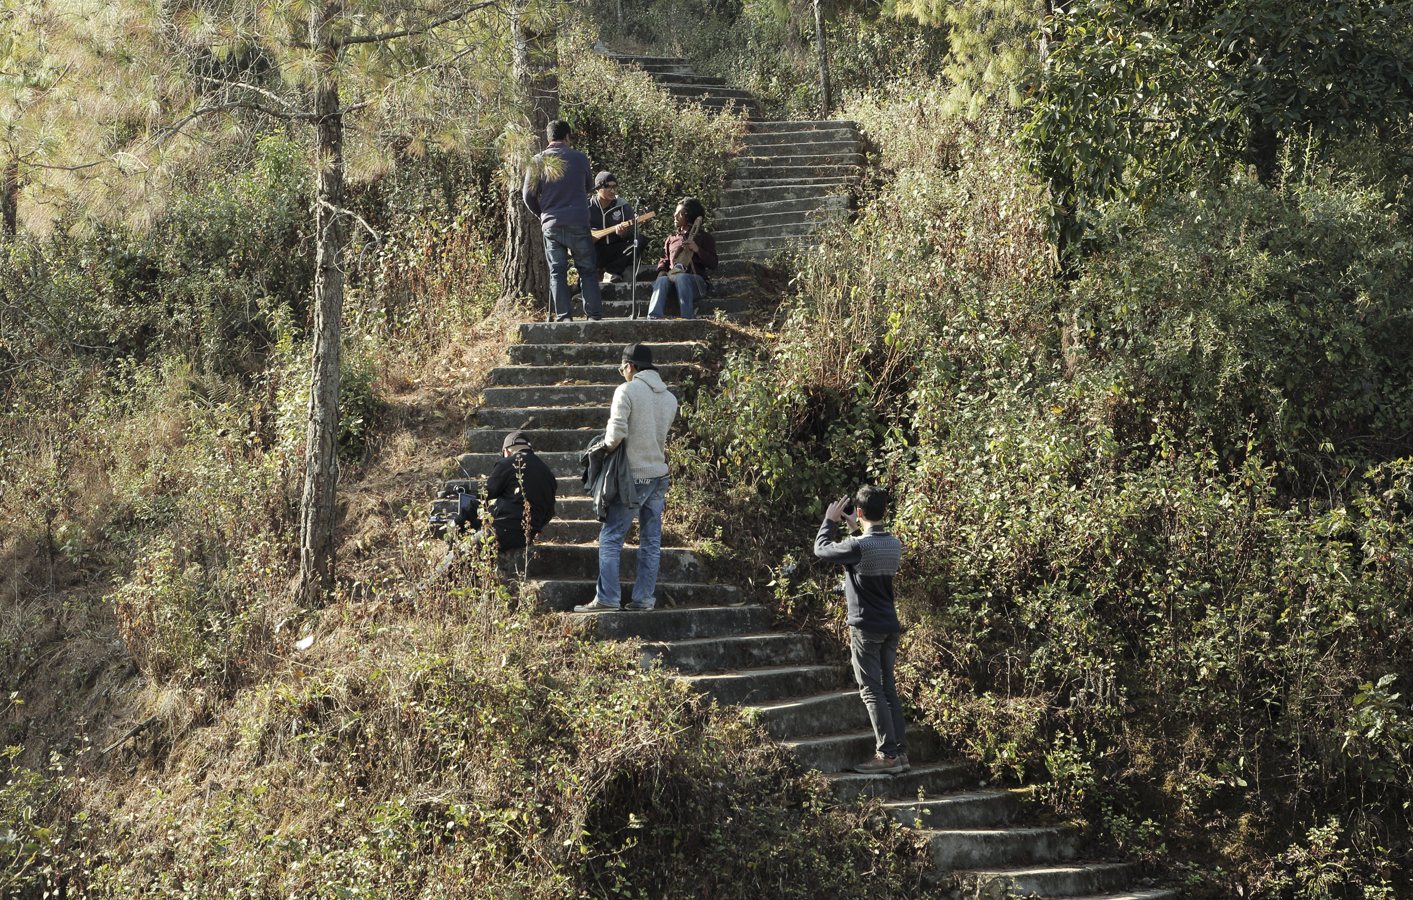
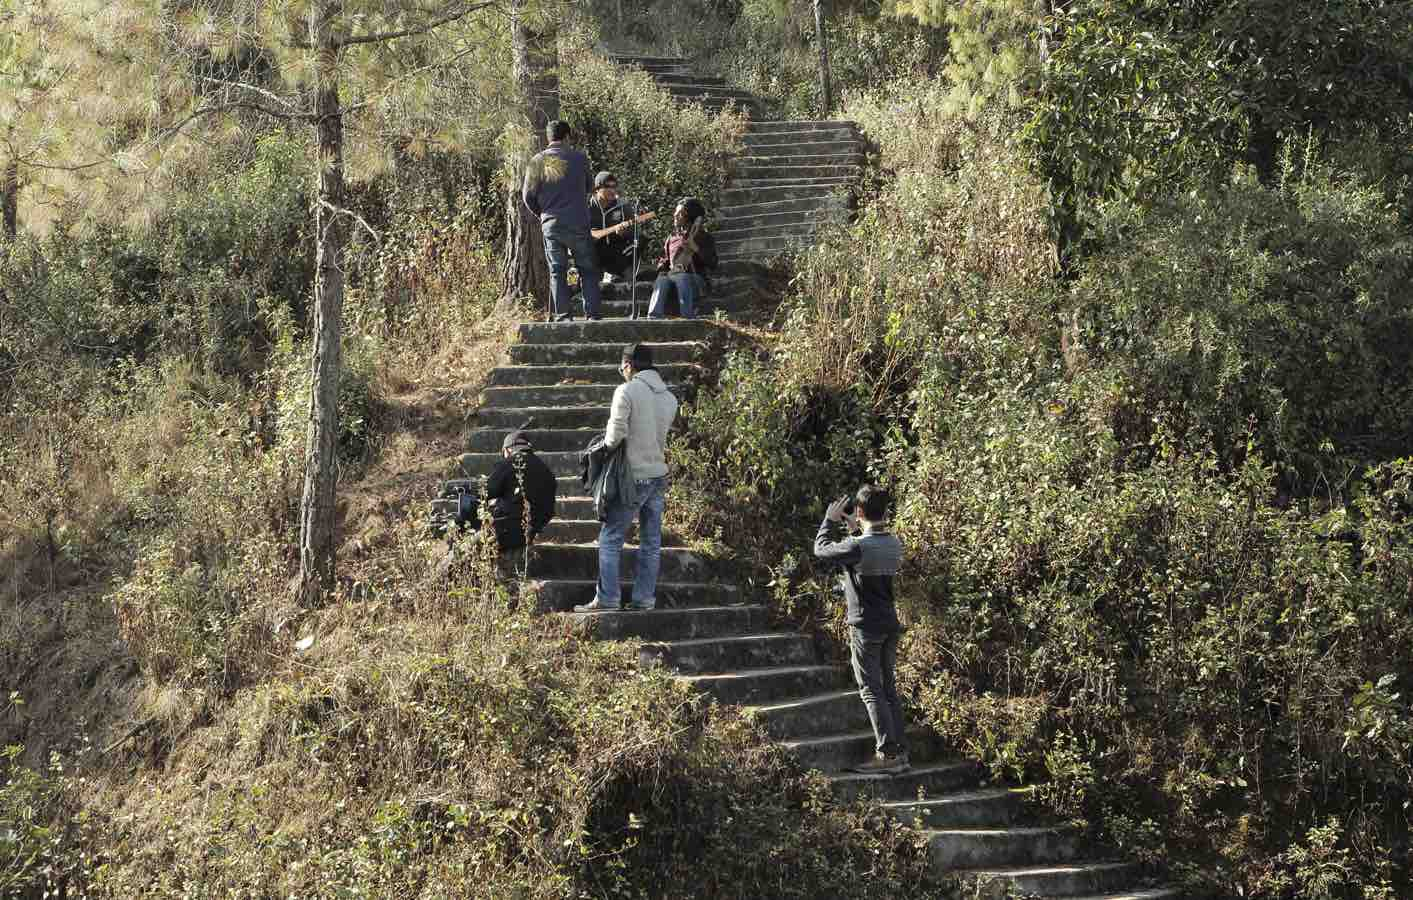
reduce image sizes

diff --git a/index.html b/index.html
@@ -281,7 +281,7 @@ He is currently working on his solo project <b>Gaau Khaane Kathaa</b> which is s
           <div class="col-md-3 col-sm-6">
               <div class="overlay-effect effects clearfix">
                   <div class="img">
-                      <a href="img/portfolio/project2.jpeg" data-lightbox="roadtrip" title=""><img class="grayscale" src="img/portfolio/project2_thum.jpeg" alt=""></a>
+                      <a href="img/portfolio/project2.jpg" data-lightbox="roadtrip" title=""><img class="grayscale" src="img/portfolio/project2_thum.jpeg" alt=""></a>
                   </div>
               </div>
           </div>
